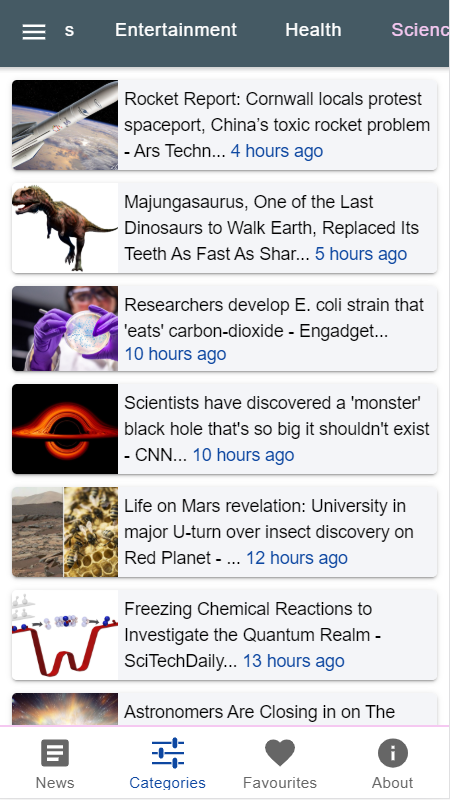
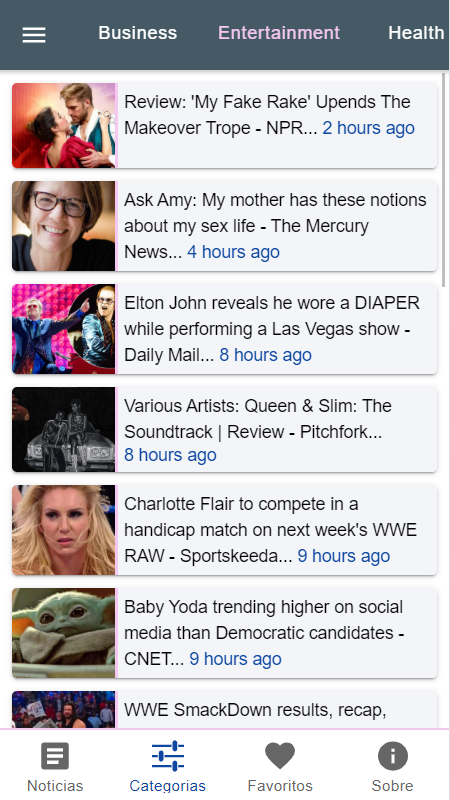
readme images added, tabs fr & sp languages added, styling updates, news-detail author card added

diff --git a/src/app/pages/news-detail/news-detail.page.html b/src/app/pages/news-detail/news-detail.page.html
@@ -4,12 +4,13 @@
 			<!-- <ion-menu-button></ion-menu-button> -->
 			<ion-back-button text="" defaultHref="app/tabs/news" router-direction="back"></ion-back-button>
     </ion-buttons>
-    <ion-title *ngIf="article.source.name">{{ 'NEWS-DETAIL.title' | translate }} {{ article.source.name }}</ion-title>
+    <ion-title *ngIf="article.source.name">{{ 'NEWS-DETAIL.title' | translate }} <span class="source-text">{{ article.source.name }}</span></ion-title>
 	</ion-toolbar>
 
 </ion-header>
 
-<ion-content no-padding>
+<ion-content no-padding [scrollEvents]="true">
+	
 
 	<ion-grid no-padding>
 		<ion-row>
@@ -25,10 +26,15 @@
 					<ion-card-content no-padding>
 						<ion-list>
 							<ion-list-header class="detail-header">{{ article.title | titleNosource }}</ion-list-header>
-							<ion-text *ngIf="article.content">{{ appendString(article.content) }}
+							<ion-text *ngIf="article.content">{{ appendString(article.content) }}			
 							<br><span class="small-text">{{ article.publishedAt | dateConvert }}</span>
 							</ion-text>
 						</ion-list>
+					</ion-card-content>
+				</ion-card>
+				<ion-card *ngIf="article.author" no-padding no-margin>
+					<ion-card-content>
+						<ion-text><span class="author-text"><ion-icon size="large" name="contact"></ion-icon>Author: </span>{{ article.author }}</ion-text>
 					</ion-card-content>
 				</ion-card>
 			
@@ -65,7 +71,7 @@
 </ion-content>
 
 <ion-tabs>
-	<ion-tab-bar>
+	<ion-tab-bar slot="bottom">
 		<ion-buttons>
 			<ion-button
 				href="{{article.url}}"

diff --git a/src/app/pages/tabs/tabs.page.html b/src/app/pages/tabs/tabs.page.html
@@ -3,22 +3,22 @@
   <ion-tab-bar slot="bottom">
     <ion-tab-button tab="news">
       <ion-icon name="list-box" size="large"></ion-icon>
-      <ion-label >News</ion-label>
+      <ion-label >{{ 'TASK-BAR.news' | translate }}</ion-label>
     </ion-tab-button>
 
     <ion-tab-button tab="categories">
       <ion-icon name="options" size="large"></ion-icon>
-      <ion-label class="tab-label">Categories</ion-label>
+      <ion-label class="tab-label">{{ 'TASK-BAR.categories' | translate }}</ion-label>
     </ion-tab-button>
 
     <ion-tab-button tab="favourites">
       <ion-icon name="heart" size="large"></ion-icon>
-      <ion-label>Favourites</ion-label>
+      <ion-label>{{ 'TASK-BAR.favourites' | translate }}</ion-label>
     </ion-tab-button>
 
     <ion-tab-button tab="about">
       <ion-icon name="information-circle" size="large"></ion-icon>
-      <ion-label>About</ion-label>
+      <ion-label>{{ 'TASK-BAR.about' | translate }}</ion-label>
     </ion-tab-button>
   </ion-tab-bar>
 

diff --git a/src/app/pages/news/news.page.html b/src/app/pages/news/news.page.html
@@ -7,8 +7,11 @@
 		<ion-item no-padding class="source" color="primary">
 			<ion-title text-center>{{ 'NEWS.title' | translate }}</ion-title><ion-label class="source-label">{{ 'NEWS.source' | translate }} </ion-label>
 			<ion-select 
-				name="selected" [(ngModel)]="selectedSource"
-				(ionChange)="loadSourceData($event)" interface="action-sheet" 
+				name="selected"
+				[(ngModel)]="selectedSource"
+				(ionChange)="loadSourceData($event)"
+				interface="action-sheet"
+				class="source-label"
 				cancelText="{{ 'NEWS.cancel' | translate }}">
 				<ion-select-option *ngFor="let item of sources" value="{{item.id}}">{{item.name}}</ion-select-option>
 			</ion-select>

diff --git a/src/app/pages/tabs/tabs.module.ts b/src/app/pages/tabs/tabs.module.ts
@@ -12,6 +12,9 @@ import { NewsPageModule } from '../news/news.module';
 import { NewsDetailPageModule } from '../news-detail/news-detail.module';
 import { AboutPageModule } from '../about/about.module';
 
+// ngx node modules
+import { TranslateModule } from '@ngx-translate/core';
+
 @NgModule({
   imports: [
     AboutPageModule,
@@ -22,7 +25,8 @@ import { AboutPageModule } from '../about/about.module';
     IonicModule,
     NewsPageModule,
     NewsDetailPageModule,
-    TabsPageRoutingModule
+		TabsPageRoutingModule,
+		TranslateModule
   ],
   declarations: [
 		TabsPage

diff --git a/src/app/pages/news-detail/news-detail.page.scss b/src/app/pages/news-detail/news-detail.page.scss
@@ -37,3 +37,11 @@ ion-footer {
   border-bottom-width: 4px;
   border-bottom-color: var(--ion-color-tertiary);
 }
+
+.source-text {
+	color: var(--ion-color-tertiary);
+}
+
+.author-text {
+	color: var(--ion-color-secondary);
+}

diff --git a/README.md b/README.md
@@ -25,17 +25,21 @@ App to search for and display news items from a [news API](https://newsapi.org/)
 
 ## Screenshots
 
-| ![Ionic page](./img/news.png) | ![Ionic page](./img/news-detail.png) | ![Ionic categories page](./img/news-sidebar.png) |
+| ![Ionic page](./img/news1.png) | ![Ionic page](./img/news2.png) | ![Ionic categories page](./img/news3.png) |
 |:---:|:---:|:---:|
-| News Page | News Detail Page | News Detail Page with Side Nav |
+| News Page French | News Page Spanish | News Page English |
 
 | ![Ionic page](./img/categories1.png) | ![Ionic page](./img/categories2.png) | ![Ionic categories page](./img/categories3.png) |
 |:---:|:---:|:---:|
-| General Category Page | Science Category Page | Sports Category Page |
+| Categories Page Business | Categories Page Entertainment| Article Detail Page |
 
 | ![Ionic page](./img/favourites1.png) | ![Ionic page](./img/favourites2.png) | ![Ionic categories page](./img/favourites3.png) |
 |:---:|:---:|:---:|
-| Favourites Page | Favourites Page | Favourites Page |
+| Favourites Page Empty | Favourites Page Some | Favourites Page Full |
+
+| ![Ionic page](./img/about1.png) | ![Ionic page](./img/about2.png) | ![Ionic categories page](./img/about3.png) |
+|:---:|:---:|:---:|
+| About Page French | About Page + Side Menu | About Page + Info Menu |
 
 ## Technologies
 
@@ -94,7 +98,7 @@ this.newsService.getCountryCode().subscribe(
 
 * **Typescript interface** used to define the expected structure of the json object returned from the news API.
 * **Separate providers (services)** page with API http fetch functions.
-* **Custom pipes** used to modify API news article titles and derive '..time ago' from a date string.
+* **Custom pipes** used to modify API news article titles, contents and derive '..time ago' from a date string.
 * **Dark mode** switch on menu changes from light to dark mode.
 * **Offline Storage** of favourite articles using Ionic Storage.
 * **Network** status check in initialisation so latest news data is stored. Template data-binding always from stored data.
@@ -106,11 +110,12 @@ this.newsService.getCountryCode().subscribe(
 
 ### Nav/Pages
 
-* **Nav side-bar:** news, categories, favorites, search, about, change language, dark theme toggle.
+* **Nav side-bar:** news, categories, favorites, search, about, change language, dark theme toggle + Unsplash image with credit.
 
 * **News page** shows world headlines using an ion-card list. Uses *ngIf to only show card if it has an image - to avoid having news items with empty spaces (API data is not perfect). Shows time as '... ago'.
 
 * **News-detail page** shows the selected news item in more detail with links to favourites. Title has news source end text removed using a custom Angular pipe as I show this information in the top toolbar. Uses another custom pipe to shows time as '... ago'. Includes working footer buttons for 'More info', which opens news source in a separate window and 'Favourite' which adds the article to a stored news array. Array symbol at end of article content string replaced with text using split and concat. Has social media share buttons. 
+* **TODO** correct my titleNosource pipe to splice from the LAST - or some articles will be over-shortened if they include more than 1 '-'. Remove <li> from content text using regex.
 
 * **Categories page:** ion-segment used to show categories in a scrollable horizontal menu: Sport, Busines, Health, Technology, Science, General, Entertainment. Shows time as '... ago'.
 
@@ -125,12 +130,10 @@ this.newsService.getCountryCode().subscribe(
 * Status: Working but not complete.
 
 ## To-do
-1. Theme scss: improve colors - check dark theme.
-5. language change menu i18n - working for News page - expand to tabs etc.
+1. Dark theme - improve
 7. Splash screen
 9. Common article storage/access function.
 11. SqLite - use as default database?
-12. Add to refresh function so News, Categories and Favourites is refreshed.
 
 ## Inspiration
 
